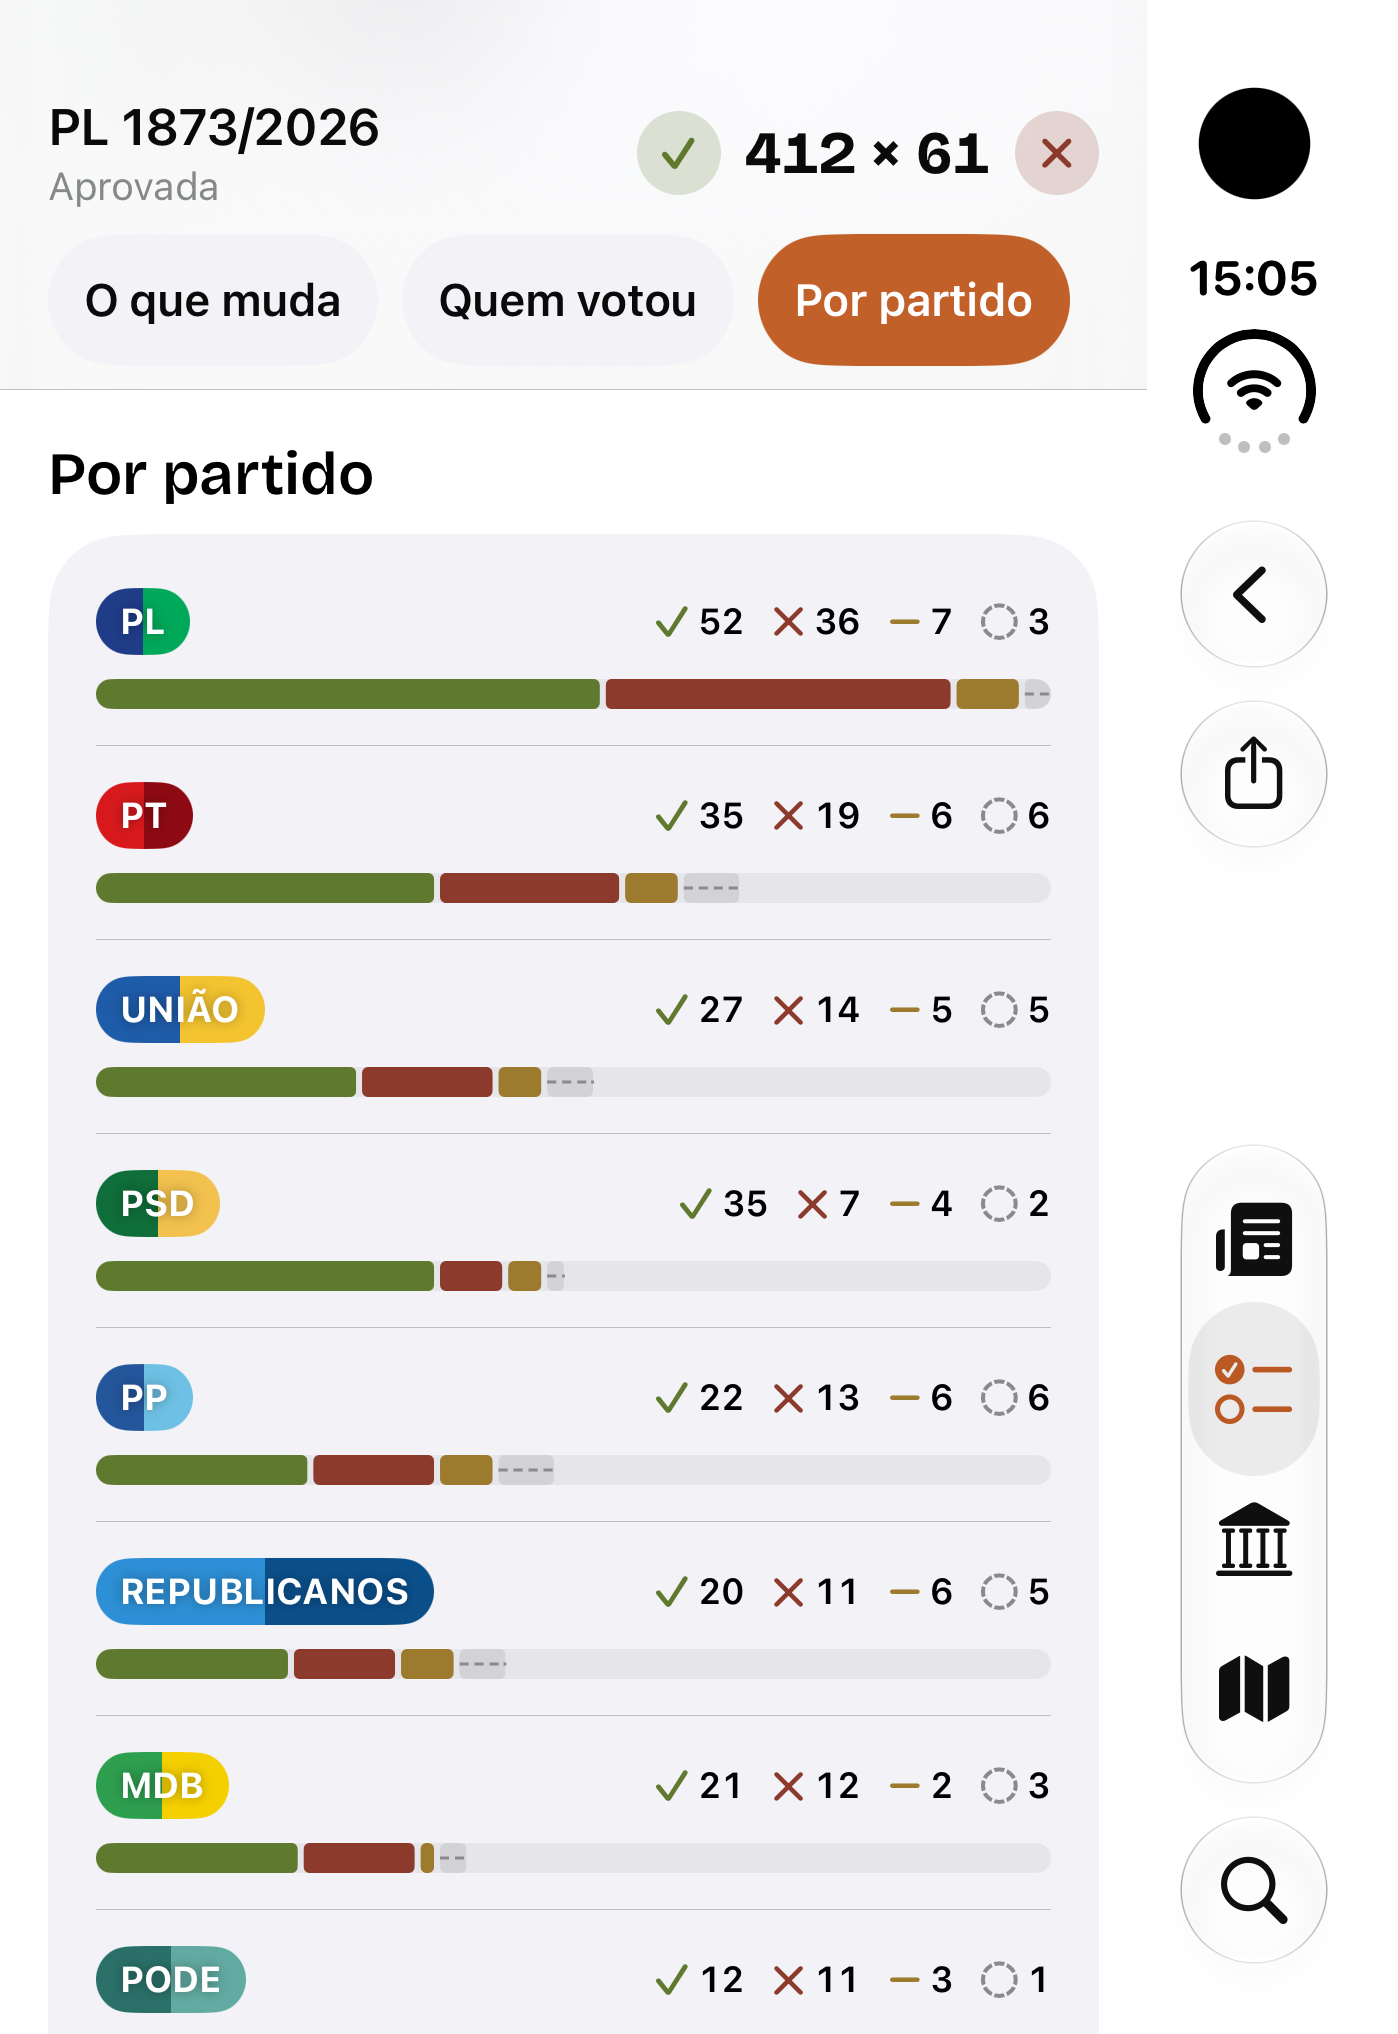
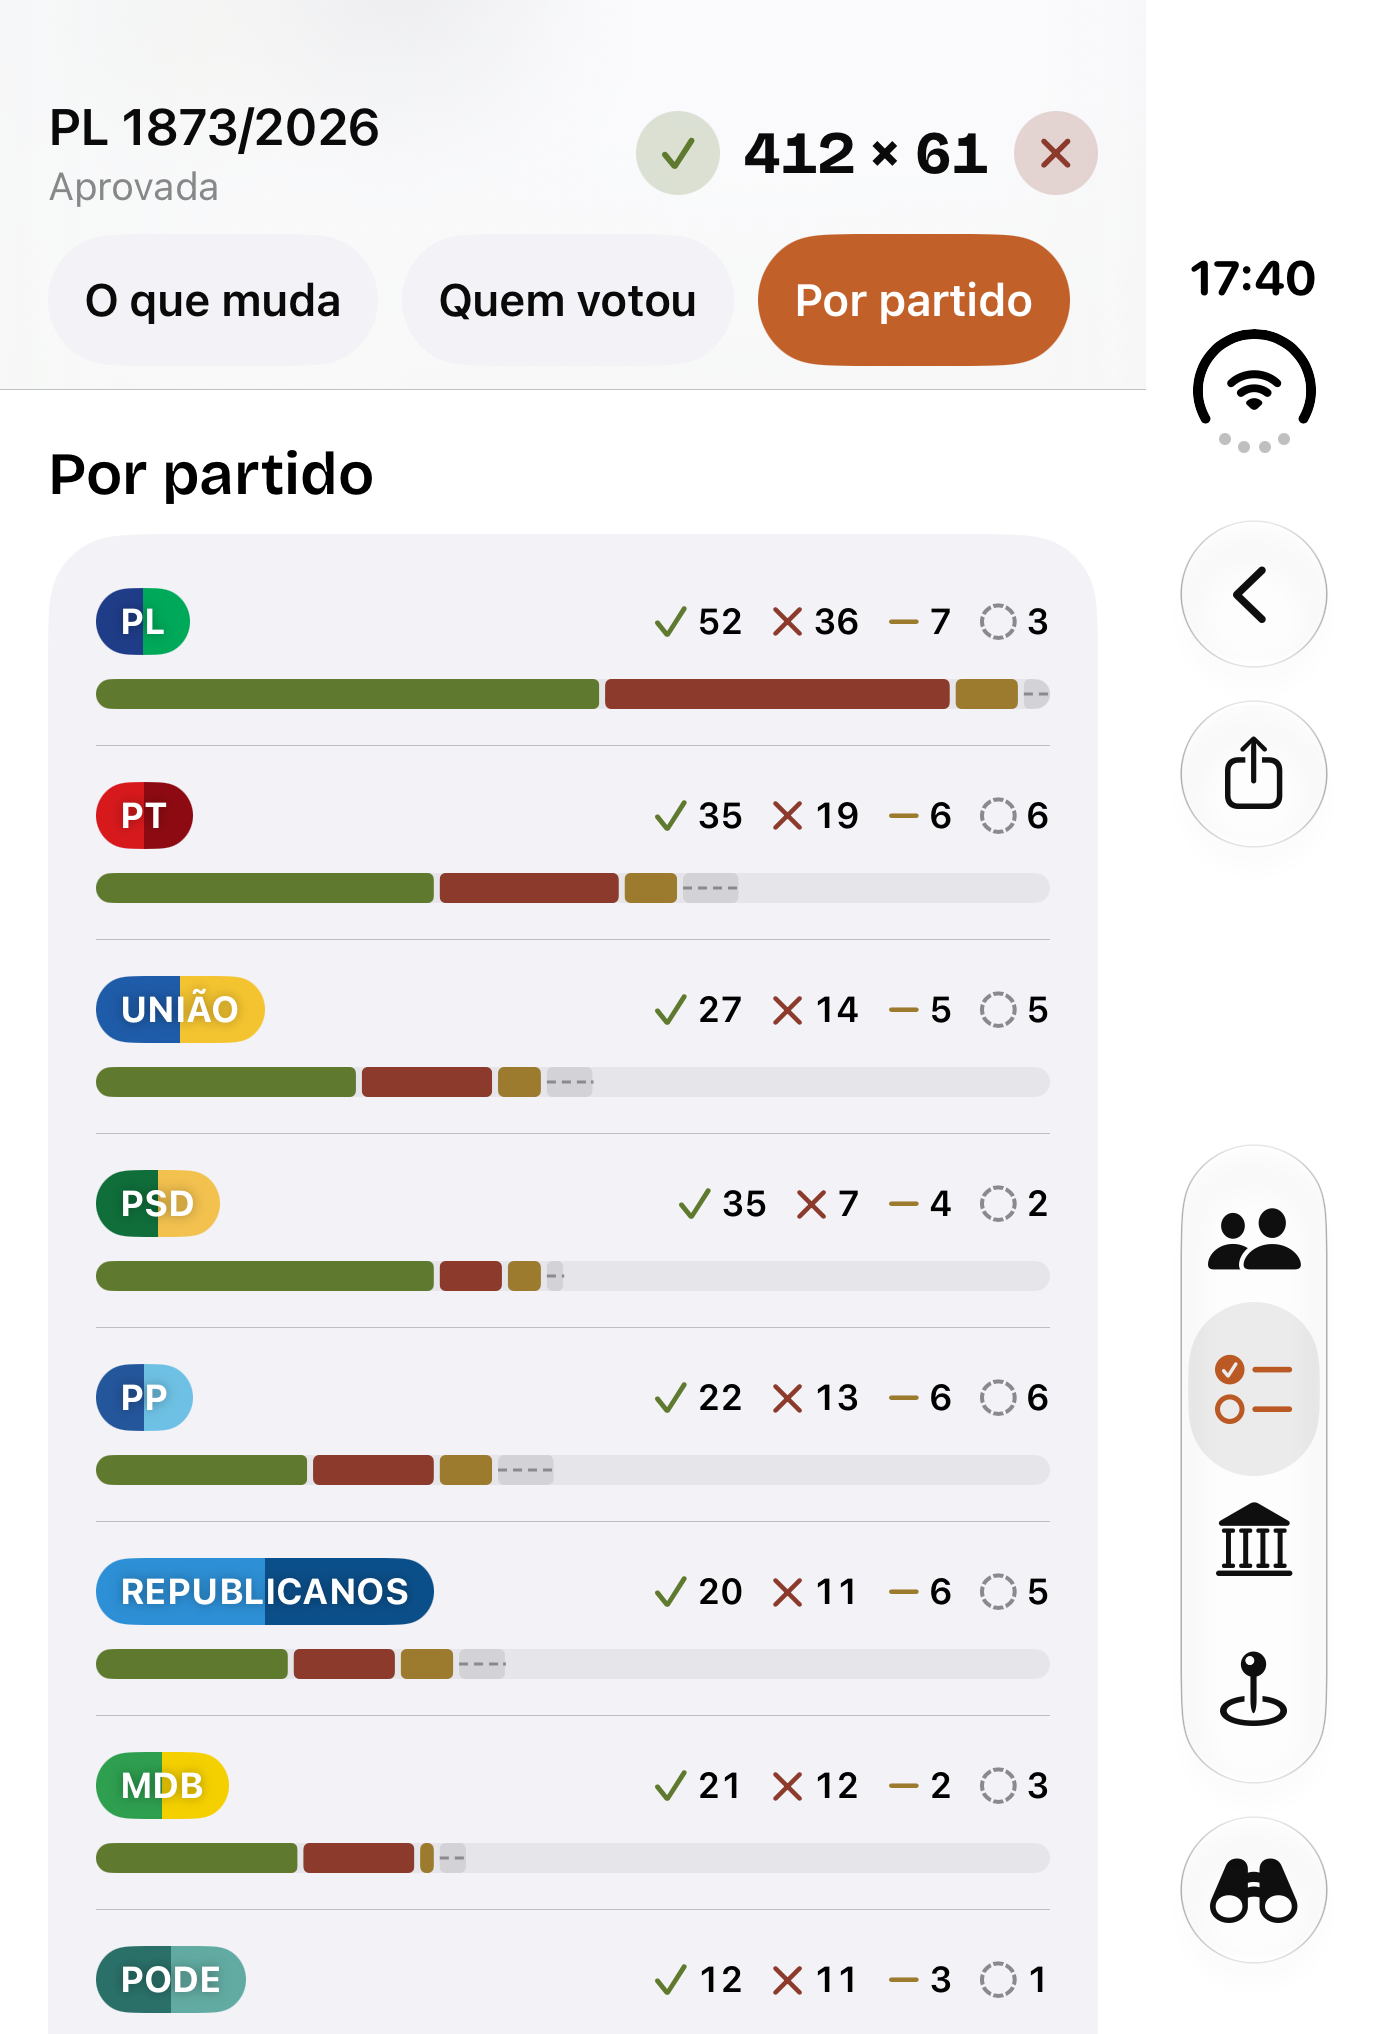
Record the QA of the phase
Canvas: spdd/prompt/FSC-015-202611021500-[Feat]-sticky-bar-votes-region-tabs.md

diff --git a/docs/evidence/FSC-015/qa.md b/docs/evidence/FSC-015/qa.md
@@ -1,0 +1,49 @@
+# QA da FSC-015: barra do topo, votações, região e ícones das abas
+
+- **Canvas:** [FSC-015](../../../spdd/prompt/FSC-015-202611021500-[Feat]-sticky-bar-votes-region-tabs.md)
+- **Ambiente:** simulador "Fiscal iPhone Duo" (iOS 27.1, dobrado) com os dados de teste (`-FiscalDataScenario normal`, `-FiscalFollowScenario normal`), e iPhone 17 Pro Max físico, com os dados reais.
+- **Usuário no iPhone físico:** viu o detalhe da votação na parada da operação 5 e pediu o ajuste do "Outros". Na parada da operação 9, disse "ficou bom" sobre Votações, Região, a tela nova, as abas e as barras, e pediu o pin com o círculo na aba Região.
+- **Capturas:** usam a lista fixa dos dados de teste; nenhuma mostra o apoio de alguém.
+
+| # | Cenário | Roteiro | Resultado | Evidência |
+| --- | --- | --- | --- | --- |
+| 1 | Barra da votação e atalhos | Rolar e tocar num atalho | passou | `testTheBarKeepsTheScoreAndJumpsToItsPart`, [barra](vote-sticky-header.png), [salto](vote-sticky-parties.png), iPhone |
+| 2 | Barra some no topo, sem pular | Voltar ao topo | passou em parte | `theBarAppearsOnlyAfterTheHeroLeavesAndKnowsWhereAChapterIs`; o usuário viu no iPhone. A ausência de pulo não tem medida automática |
+| 3 | Barra da corrida | Rolar | passou | Simulador, com "Presidente · Brasil" e "87,0% apurado", sem atalhos. Sem teste de interface nem captura versionada |
+| 4 | Barra das notas | Rolar | passou | Simulador, com nome, ano com o filtro e total, sem atalhos. Sem teste de interface nem captura versionada |
+| 5 | Sem barra em Votações e no Feed | Rolar | passou em parte | [Votações](votes-top.png) sem a barra no código e no simulador. As outras abas foram lidas no código |
+| 6 | Página do político igual | Testes da `FSC-014` | passou | `ProfileChaptersTests`, sem mudar os testes; iPhone. No maior tamanho, a barra agora limita o texto, o que é uma melhora, não o mesmo layout |
+| 7 | Reduzir movimento | Ligar no simulador e tocar num atalho | passou em parte | No código, a barra e os saltos usam animação nula. Com o ajuste ligado, a barra apareceu; o instante do salto não foi capturado |
+| 8 | Ordem do detalhe | Abrir e rolar | passou | [Topo](vote-top.png), `aNominalVoteHasChaptersAndTheListOfVotes`, simulador. "Quem você apoia" não foi visto com uma escolha, para não expor apoio em captura |
+| 9 | "Ver os 513 votos" | Tocar | passou | `testSeeingEveryVoteOpensTheListWithItsFilters`, [captura](vote-ballots.png), `theRollCallIsAlphabeticalAndSearchable` |
+| 10 | Partido abre filtrado | Tocar em PL | passou | Simulador, com "Mostrando só PL"; `thePartyStartsSelectedWhenTheListOpensFromARow` |
+| 11 | Votação simbólica | Abrir | passou | `aVoiceVoteHasNoScoreNoDashAndNoListOfVotes`, `testAVoiceVoteSaysWhatTheHouseRecorded`, [captura](vote-symbolic.png), iPhone |
+| 12 | Nominal sem nomes | Modelo | passou em teste | `aNominalVoteWithoutNamesSaysSoAndOffersNoList`; a frase não foi vista na tela |
+| 13 | Mac com a tabela | Abrir no Mac | não executável aqui | O build de macOS passa no `verify --full`; o Mac não abre nesta máquina |
+| 14 | Sim e Não em círculo | Ver o placar | passou | [Topo](vote-top.png), iPhone. VoiceOver ligado não foi usado; o rótulo vem do `StatusCircle` |
+| 15 | Resultado na linha | Ver Votações | passou | [Votações](votes-top.png) |
+| 16 | "1 outro voto" e "9 outros votos" | Texto | passou em parte | "9 outros votos" e "3 outros votos" na tela. O singular só está provado pela entrada no catálogo |
+| 17 | "Albuquerque" | Ver em Seus representantes | passou | Simulador, inteiro numa linha |
+| 18 | Bloco de partidos inteiro | Orientação | passou em parte | Vem do código e do teste de orientação; o nome longo real não foi visto na tela |
+| 19 | Linhas de Votações | Abrir a aba | passou | [Votações](votes-top.png): número, resumo em duas linhas, resultado, placar, hora e tema; mais de duas linhas no Duo dobrado e o iPhone, maior, foi visto pelo usuário. A contagem de três linhas por tela não foi medida |
+| 20 | Próxima sessão com itens | Abrir e tocar | passou | `aFutureSessionWithItsAgendaShowsTheDateAndTheCount`, simulador, com fixture em que os itens são da mesma data da sessão |
+| 21 | Em sessão | Modelo | passou em teste | `aSessionUnderWaySaysSoWithItsItems`; a linha não foi vista na tela nesse estado |
+| 22 | Pauta vencida | Modelo | passou em teste | `aPastAgendaWithoutSessionsAheadShowsNothing`, `aPastAgendaNeverLendsItsItemsToTheNextSession`, `todaysItemsDoNotCountForASessionOnAnotherDay` |
+| 23 | Tela da pauta | Abrir | passou em parte | Simulador, com temas inteiros e o status em texto. Os dados de teste não trazem link oficial, então ele não foi visto nesta tela |
+| 24 | Região sem seguidos | Abrir | passou | `testRegionStartsOnThePlace`, [captura](region-top.png), iPhone |
+| 25 | Filtro Seguindo | Tocar e abrir | passou | `testTheFollowingFilterOpensWhoYouFollow`, [filtro](feed-following.png), [tela](following.png) |
+| 26 | Seguir e deixar de seguir | Tocar | passou em parte | `testFollowingAndUnfollowingWorkOnTheScreen`, `unfollowingLeavesTheListAndComesBackAsASuggestion`. O reflexo no Feed depende do `session.generation` e não foi conferido na tela |
+| 27 | Sem lugar | Abrir | passou | `testTheLinkOpensTheScreenAndWithoutAPlaceInvitesToChooseIt`, [captura](following-empty.png) |
+| 28 | Ninguém seguido | Convite do Feed | passou | `testTheFeedInviteLeadsToTheScreen` |
+| 29 | Links, widget e Siri | Abrir | passou em parte | `DeepLinkTests`, `FollowIntentTests` e a captura pelo link. O widget e a Siri não foram abertos |
+| 30 | Abas | Ver | passou | `feedRegionAndSearchUseTheirTabSymbols`, simulador; o usuário aprovou no iPhone e pediu o pin em Região |
+| 31 | Maior tamanho e VoiceOver | Rolar até o fim | passou em parte | `testTheEndIsReachableAtTheLargestTextSize` no detalhe e em quem você segue, [fim](vote-largest-end.png). VoiceOver ligado não foi usado |
+| 32 | Duo aberto, iPad e Mac | Abrir | não executável aqui | Vistas só com o Duo dobrado e o iPhone físico. Os builds passam |
+
+**Defeito achado no QA:** no maior tamanho de texto, a barra crescia até ocupar a tela, cortava o título e impedia a rolagem. A barra agora limita o texto a `xxxLarge`, e `testTheEndIsReachableAtTheLargestTextSize` cobre isso. A linha de Votações, o título do dia ("Onte-m") e a linha da pauta também foram corrigidos nesse tamanho.
+
+**Fora do canvas, no backlog:** no maior tamanho, a corrida corta o nome e o gráfico mensal sobrepõe os meses. Os dados publicados estão parados em 28/10.
+
+**Pauta real:** a fonte publica os itens só da sessão do dia. Em dia sem sessão, a linha mostra só a data, sem quantidade nem seta, para não apresentar pauta antiga como atual.
+
+**Lista no modo de teste:** com `-FiscalFollowScenario`, `FollowingModel` lê a mesma lista fixa do Feed, e o botão de seguir grava no banco real do simulador. Fora do modo de teste, os dois usam o mesmo banco. Por isso o teste de seguir roda sem esse argumento.

diff --git a/docs/roadmap.md b/docs/roadmap.md
@@ -38,7 +38,7 @@ A fase 8 corre em etapas:
 | 8.3.6 | `FSC-012`: fim da Lente e a página "Meu apoio", com pessoas e causas, só no aparelho ([canvas](../spdd/prompt/FSC-012-202611012040-[Feat]-end-of-lens-my-support.md)) | entregue ([PR #10](https://github.com/byescaleira/fiscal/pull/10)) |
 | 8.3.7 | `FSC-013`: aba Feed como primeira, absorvendo Hoje, com o feed montado no app, e aba Região ([canvas](../spdd/prompt/FSC-013-202611012300-[Feat]-feed-first-tab-and-region.md)) | entregue ([PR #11](https://github.com/byescaleira/fiscal/pull/11)) |
 | 8.3.8 | `FSC-014`: nova página do político, com o bonequinho no cabeçalho, compartilhar um item específico e um destino principal por cartão ([canvas](../spdd/prompt/FSC-014-202611020300-[Feat]-politician-page-and-share-an-item.md)) | entregue ([PR #12](https://github.com/byescaleira/fiscal/pull/12)) |
-| 8.3.9 | `FSC-015`: a barra que aparece no topo ao rolar, nas telas em que algo precisa continuar visível | a seguir, aprovada pelo usuário em 2026-11-02 |
+| 8.3.9 | `FSC-015`: a barra que aparece no topo ao rolar, nas telas em que algo precisa continuar visível | em revisão, canvas aprovado pelo usuário em 2026-11-02 |
 | 8.4 | Loja: roteiro de [validation.md](validation.md) no iPhone físico, rótulo de privacidade ([ADR 0017](adr/0017-app-store-privacy-label.md)), capturas, TestFlight e envio para a revisão | — |
 
 - **Lançamento só iOS (iPhone e iPad).** Mac e visionOS compilam no mesmo projeto, mas a receita própria do Mac e o envio dessas plataformas ficam no [backlog](backlog.md).
